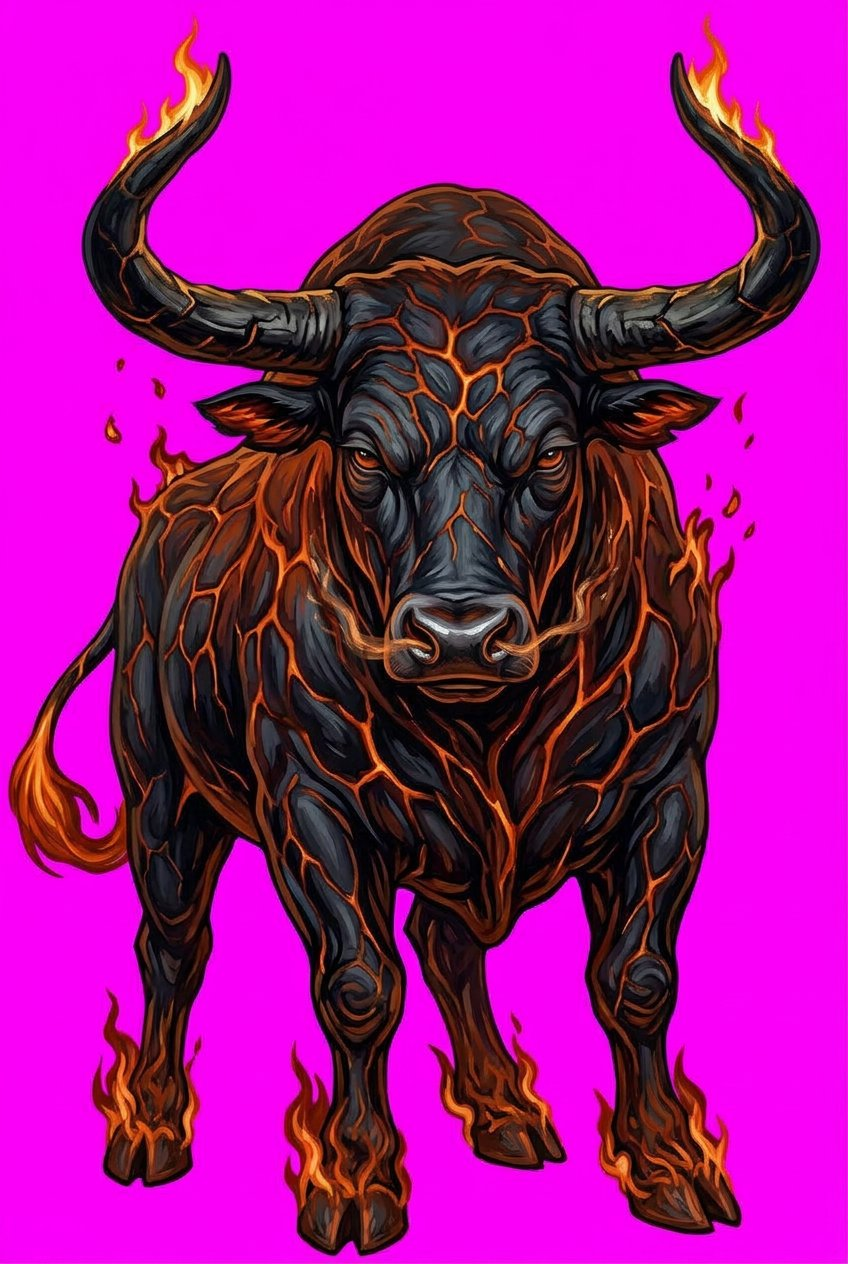
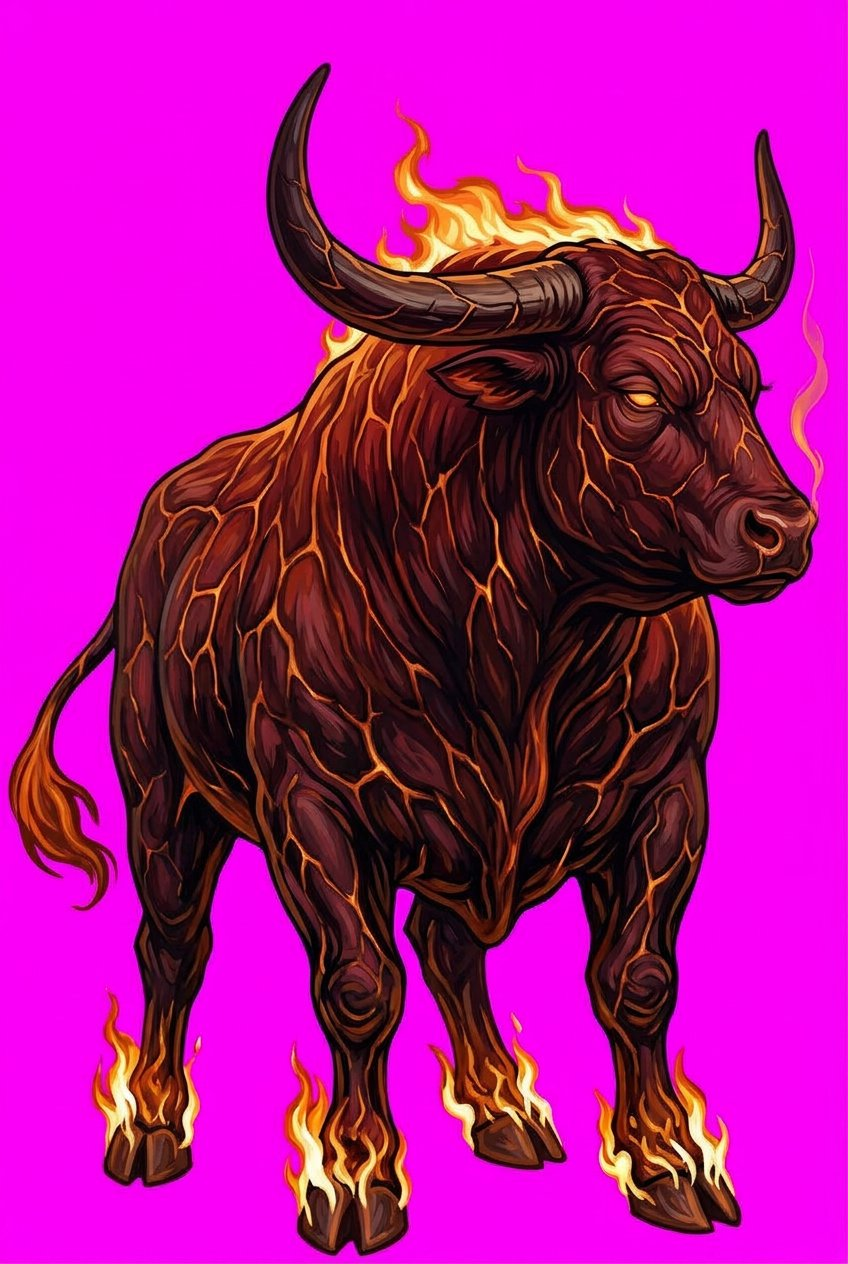
Poses : tout le casting a sa garde et sa detente, sept figures ont leur decision
Dix variantes nouvelles :

- Ifrit des ergs : detente reprise — corps de trois quarts, tete de profil,
  cornes balayees, braise refroidie. Sa garde etait trop proche de la
  reference pour lire comme une autre pose.
- Horloger du Zenith : garde (orbe d'astrolabe hisse au-dessus de la tete,
  chaine tendue, robes soulevees) et detente (orbe recueilli a deux mains a
  la ceinture, chaine detendue, dos courbe).
- Premieres poses de decision, pour la situation « choix » (une des cinq
  scenes ou le lecteur tranche) : Salem et Yamina ouvrent les mains vers le
  lecteur, la Scribe montre la liste ouverte pages tournees, le Djinn du
  tournant penche sa balance, Boualem repose sa jarre et offre ses paumes,
  le Grand Horloger passe la plume, la Valkyrie ouvre les tables de givre,
  la lance laissee a l'epaule.

Chaque variante derive de la peinture canonique de sa figure : meme visage,
meme tenue, meme palette, seule la posture change. Les 24 figures detourees
ont desormais leurs deux postures ; 79 sprites au total (24 figures et 55
variantes), tous verifies.

Tests : le lecteur monte verifie que la decision est prise en compte par les
DEUX figures du plan (Salem et la Scribe a listes-2-apres) et, a la derniere
decision du recit (sables-3-apres), que l'Horloger du Zenith — sans variante
de decision — garde bien sa pose de reference. Le rejeu de la campagne par
les vraies transitions choisit desormais la premiere option de chaque
[…]

diff --git a/src/games/rpgStoryCast.js b/src/games/rpgStoryCast.js
@@ -32,18 +32,18 @@ export const SITUATIONS_POSE_HISTOIRE = Object.freeze({
 
 const personnages = {
   narrateur: { nom: 'Bab El', fonction: 'La ville qui monte', portrait: null, couleur: '#d7bc86' },
-  salem: { nom: 'Salem', fonction: 'Le Sondeur', carte: 'salem', portrait: 'cards/salem.jpg', position: '50% 24%', couleur: '#e6bf76', stand: 'sablier-story/stands/stand-salem.webp', poses: { duel: 'sablier-story/stands/stand-salem-affrontement.webp', apres: 'sablier-story/stands/stand-salem-apaisement.webp' } },
-  yamina: { nom: 'Yamina', fonction: 'L’Horlogère', carte: 'yamina', portrait: 'cards/yamina.jpg', position: '50% 26%', couleur: '#9fd1cc', stand: 'sablier-story/stands/stand-yamina.webp', poses: { duel: 'sablier-story/stands/stand-yamina-affrontement.webp', apres: 'sablier-story/stands/stand-yamina-apaisement.webp' } },
+  salem: { nom: 'Salem', fonction: 'Le Sondeur', carte: 'salem', portrait: 'cards/salem.jpg', position: '50% 24%', couleur: '#e6bf76', stand: 'sablier-story/stands/stand-salem.webp', poses: { duel: 'sablier-story/stands/stand-salem-affrontement.webp', choix: 'sablier-story/stands/stand-salem-decision.webp', apres: 'sablier-story/stands/stand-salem-apaisement.webp' } },
+  yamina: { nom: 'Yamina', fonction: 'L’Horlogère', carte: 'yamina', portrait: 'cards/yamina.jpg', position: '50% 26%', couleur: '#9fd1cc', stand: 'sablier-story/stands/stand-yamina.webp', poses: { duel: 'sablier-story/stands/stand-yamina-affrontement.webp', choix: 'sablier-story/stands/stand-yamina-decision.webp', apres: 'sablier-story/stands/stand-yamina-apaisement.webp' } },
   feriel: { nom: 'Fériel', fonction: 'La Souffleuse de verre', carte: 'feriel', portrait: 'cards/feriel.jpg', position: '55% 22%', couleur: '#efb18e', stand: 'sablier-story/stands/stand-feriel.webp', poses: { duel: 'sablier-story/stands/stand-feriel-affrontement.webp', apres: 'sablier-story/stands/stand-feriel-apaisement.webp' } },
   tarek: { nom: 'Tarek', fonction: 'Le Porteur', carte: 'tarek', portrait: 'cards/tarek.jpg', position: '50% 24%', couleur: '#d4ad79', stand: 'sablier-story/stands/stand-tarek.webp', poses: { duel: 'sablier-story/stands/stand-tarek-affrontement.webp', apres: 'sablier-story/stands/stand-tarek-apaisement.webp' } },
-  boualem: { nom: 'Boualem', fonction: 'Le Puisatier', carte: 'boualem', portrait: 'cards/boualem.jpg', position: '50% 22%', couleur: '#9bc7d2', stand: 'sablier-story/stands/stand-boualem.webp', poses: { duel: 'sablier-story/stands/stand-boualem-affrontement.webp', apres: 'sablier-story/stands/stand-boualem-apaisement.webp' } },
+  boualem: { nom: 'Boualem', fonction: 'Le Puisatier', carte: 'boualem', portrait: 'cards/boualem.jpg', position: '50% 22%', couleur: '#9bc7d2', stand: 'sablier-story/stands/stand-boualem.webp', poses: { duel: 'sablier-story/stands/stand-boualem-affrontement.webp', choix: 'sablier-story/stands/stand-boualem-decision.webp', apres: 'sablier-story/stands/stand-boualem-apaisement.webp' } },
   guetteur: { nom: 'Le Guetteur', fonction: 'Vigie de la Chambre', carte: 'guetteur-du-beffroi', portrait: 'cards/guetteur-du-beffroi.jpg', position: '60% 22%', couleur: '#cebb99', stand: 'sablier-story/stands/stand-guetteur.webp', poses: { duel: 'sablier-story/stands/stand-guetteur-affrontement.webp', apres: 'sablier-story/stands/stand-guetteur-apaisement.webp' } },
-  scribe: { nom: 'La Scribe', fonction: 'Greffière des évacuations', portrait: 'sablier-story/scribe.jpg', position: '50% 24%', couleur: '#adc8b2', stand: 'sablier-story/stands/stand-scribe.webp', poses: { duel: 'sablier-story/stands/stand-scribe-affrontement.webp', apres: 'sablier-story/stands/stand-scribe-apaisement.webp' } },
+  scribe: { nom: 'La Scribe', fonction: 'Greffière des évacuations', portrait: 'sablier-story/scribe.jpg', position: '50% 24%', couleur: '#adc8b2', stand: 'sablier-story/stands/stand-scribe.webp', poses: { duel: 'sablier-story/stands/stand-scribe-affrontement.webp', choix: 'sablier-story/stands/stand-scribe-decision.webp', apres: 'sablier-story/stands/stand-scribe-apaisement.webp' } },
   puisatier: { nom: 'Le Puisatier des Cendres', fonction: 'Gardien des registres de passage', portrait: 'sablier-story/puisatier.jpg', position: '50% 24%', couleur: '#9bc7d2', stand: 'sablier-story/stands/stand-puisatier.webp', poses: { duel: 'sablier-story/stands/stand-puisatier-affrontement.webp', apres: 'sablier-story/stands/stand-puisatier-apaisement.webp' } },
-  mahieddine: { nom: 'Mahieddine', fonction: 'Le Grand Horloger', portrait: 'sablier-story/mahieddine.jpg', position: '50% 24%', couleur: '#d7bc86', stand: 'sablier-story/stands/stand-mahieddine.webp', poses: { duel: 'sablier-story/stands/stand-mahieddine-affrontement.webp', apres: 'sablier-story/stands/stand-mahieddine-apaisement.webp' } },
+  mahieddine: { nom: 'Mahieddine', fonction: 'Le Grand Horloger', portrait: 'sablier-story/mahieddine.jpg', position: '50% 24%', couleur: '#d7bc86', stand: 'sablier-story/stands/stand-mahieddine.webp', poses: { duel: 'sablier-story/stands/stand-mahieddine-affrontement.webp', choix: 'sablier-story/stands/stand-mahieddine-decision.webp', apres: 'sablier-story/stands/stand-mahieddine-apaisement.webp' } },
   marchand: { nom: 'Le Marchand de sable', fonction: 'Facteur des étals', carte: 'faiseur-de-passage', portrait: 'cards/faiseur-de-passage.jpg', position: '50% 24%', couleur: '#d9b578', stand: 'sablier-story/stands/stand-marchand.webp', poses: { duel: 'sablier-story/stands/stand-marchand-affrontement.webp', apres: 'sablier-story/stands/stand-marchand-apaisement.webp' } },
   amani: { nom: 'La Gardienne des ksour', fonction: 'Portière du souk haut', carte: 'amani-des-ksour', portrait: 'cards/amani-des-ksour.jpg', position: '50% 22%', couleur: '#e2bd84', stand: 'sablier-story/stands/stand-amani.webp', poses: { duel: 'sablier-story/stands/stand-amani-affrontement.webp', apres: 'sablier-story/stands/stand-amani-apaisement.webp' } },
-  'djinn-souk': { nom: 'Le Djinn du tournant', fonction: 'Rouleur d’épices', carte: 'djinn-du-souk', portrait: 'cards/djinn-du-souk.jpg', position: '50% 22%', couleur: '#ef9d6e', stand: 'sablier-story/stands/stand-djinn-souk.webp', poses: { duel: 'sablier-story/stands/stand-djinn-souk-affrontement.webp', apres: 'sablier-story/stands/stand-djinn-souk-apaisement.webp' } },
+  'djinn-souk': { nom: 'Le Djinn du tournant', fonction: 'Rouleur d’épices', carte: 'djinn-du-souk', portrait: 'cards/djinn-du-souk.jpg', position: '50% 22%', couleur: '#ef9d6e', stand: 'sablier-story/stands/stand-djinn-souk.webp', poses: { duel: 'sablier-story/stands/stand-djinn-souk-affrontement.webp', choix: 'sablier-story/stands/stand-djinn-souk-decision.webp', apres: 'sablier-story/stands/stand-djinn-souk-apaisement.webp' } },
   'reine-etals': { nom: 'La Reine des étals', fonction: 'Doyenne du souk', carte: 'tin-hinan', portrait: 'cards/tin-hinan-des-pistes.jpg', position: '50% 22%', couleur: '#ecc987', stand: 'sablier-story/stands/stand-reine-etals.webp', poses: { duel: 'sablier-story/stands/stand-reine-etals-affrontement.webp', apres: 'sablier-story/stands/stand-reine-etals-apaisement.webp' } },
   pecheur: { nom: 'Le Pêcheur de perles', fonction: 'Plongeur des citernes basses', carte: 'veilleuse-des-citernes', portrait: 'cards/veilleuse-des-citernes.jpg', position: '50% 24%', couleur: '#8ec7d2', stand: 'sablier-story/stands/stand-pecheur.webp', poses: { duel: 'sablier-story/stands/stand-pecheur-affrontement.webp', apres: 'sablier-story/stands/stand-pecheur-apaisement.webp' } },
   nageuse: { nom: 'La Nageuse des puits', fonction: 'Gardienne des eaux souterraines', carte: 'bakunawa', portrait: 'cards/bakunawa.jpg', position: '50% 24%', couleur: '#7ab8cb', stand: 'sablier-story/stands/stand-nageuse.webp', poses: { duel: 'sablier-story/stands/stand-nageuse-affrontement.webp', apres: 'sablier-story/stands/stand-nageuse-apaisement.webp' } },
@@ -51,11 +51,11 @@ const personnages = {
   devoreur: { nom: 'Le Dévoreur de l’abîme', fonction: 'Gardien du fond', carte: 'leviathan', portrait: 'cards/leviathan.jpg', position: '50% 24%', couleur: '#6fb3c8', stand: 'sablier-story/stands/stand-devoreur.webp', poses: { duel: 'sablier-story/stands/stand-devoreur-affrontement.webp', apres: 'sablier-story/stands/stand-devoreur-apaisement.webp' } },
   'garde-fjord': { nom: 'La Garde du fjord', fonction: 'Boucliers du passage', carte: 'guerrier-au-bouclier-rond', portrait: 'cards/guerrier-au-bouclier-rond.jpg', position: '50% 22%', couleur: '#a8cbe0', stand: 'sablier-story/stands/stand-garde-fjord.webp', poses: { duel: 'sablier-story/stands/stand-garde-fjord-affrontement.webp', apres: 'sablier-story/stands/stand-garde-fjord-apaisement.webp' } },
   'meute-neiges': { nom: 'La Meute des neiges', fonction: 'Chasseurs du plateau de glace', carte: 'loup-des-neiges', portrait: 'cards/loup-des-neiges.jpg', position: '50% 24%', couleur: '#b9d6e8', stand: 'sablier-story/stands/stand-meute-neiges.webp', poses: { duel: 'sablier-story/stands/stand-meute-neiges-affrontement.webp', apres: 'sablier-story/stands/stand-meute-neiges-apaisement.webp' } },
-  'valkyrie-fjord': { nom: 'La Valkyrie du fjord', fonction: 'Porteuse du corbeau', carte: 'valkyrie-des-glaces', portrait: 'cards/valkyrie-des-glaces.jpg', position: '50% 22%', couleur: '#c4def0', stand: 'sablier-story/stands/stand-valkyrie-fjord.webp', poses: { duel: 'sablier-story/stands/stand-valkyrie-fjord-affrontement.webp', apres: 'sablier-story/stands/stand-valkyrie-fjord-apaisement.webp' } },
+  'valkyrie-fjord': { nom: 'La Valkyrie du fjord', fonction: 'Porteuse du corbeau', carte: 'valkyrie-des-glaces', portrait: 'cards/valkyrie-des-glaces.jpg', position: '50% 22%', couleur: '#c4def0', stand: 'sablier-story/stands/stand-valkyrie-fjord.webp', poses: { duel: 'sablier-story/stands/stand-valkyrie-fjord-affrontement.webp', choix: 'sablier-story/stands/stand-valkyrie-fjord-decision.webp', apres: 'sablier-story/stands/stand-valkyrie-fjord-apaisement.webp' } },
   'maitre-hivers': { nom: 'Le Maître des Neuf Hivers', fonction: 'Celui qui tient le serment', carte: 'pere-des-corbeaux', portrait: 'cards/pere-des-corbeaux.jpg', position: '50% 22%', couleur: '#d3e7f5', stand: 'sablier-story/stands/stand-maitre-hivers.webp', poses: { duel: 'sablier-story/stands/stand-maitre-hivers-affrontement.webp', apres: 'sablier-story/stands/stand-maitre-hivers-apaisement.webp' } },
   'dernier-fennec': { nom: 'Le Dernier Fennec', fonction: 'Éclaireur des étages perdus', carte: 'fennec-des-decombres', portrait: 'cards/fennec-des-decombres.jpg', position: '50% 24%', couleur: '#e3be7a', stand: 'sablier-story/stands/stand-dernier-fennec.webp', poses: { duel: 'sablier-story/stands/stand-dernier-fennec-affrontement.webp', apres: 'sablier-story/stands/stand-dernier-fennec-apaisement.webp' } },
-  'ifrit-ergs': { nom: 'L’Ifrit des ergs', fonction: 'Gardien du portail', carte: 'ifrit-des-ergs', portrait: 'cards/ifrit-des-ergs.jpg', position: '50% 22%', couleur: '#f09c67', stand: 'sablier-story/stands/stand-ifrit-ergs.webp', poses: { duel: 'sablier-story/stands/stand-ifrit-ergs-affrontement.webp' } },
-  'horloger-zenith': { nom: 'L’Horloger du Zénith', fonction: 'Voix de l’horloge du ciel', carte: 'sahir-des-braises', portrait: 'cards/sahir-des-braises.jpg', position: '50% 22%', couleur: '#e8c47c', stand: 'sablier-story/stands/stand-horloger-zenith.webp' },
+  'ifrit-ergs': { nom: 'L’Ifrit des ergs', fonction: 'Gardien du portail', carte: 'ifrit-des-ergs', portrait: 'cards/ifrit-des-ergs.jpg', position: '50% 22%', couleur: '#f09c67', stand: 'sablier-story/stands/stand-ifrit-ergs.webp', poses: { duel: 'sablier-story/stands/stand-ifrit-ergs-affrontement.webp', apres: 'sablier-story/stands/stand-ifrit-ergs-apaisement.webp' } },
+  'horloger-zenith': { nom: 'L’Horloger du Zénith', fonction: 'Voix de l’horloge du ciel', carte: 'sahir-des-braises', portrait: 'cards/sahir-des-braises.jpg', position: '50% 22%', couleur: '#e8c47c', stand: 'sablier-story/stands/stand-horloger-zenith.webp', poses: { duel: 'sablier-story/stands/stand-horloger-zenith-affrontement.webp', apres: 'sablier-story/stands/stand-horloger-zenith-apaisement.webp' } },
 };
 export const RPG_STORY_CAST = Object.freeze(Object.fromEntries(
   Object.entries(personnages).map(([id, personnage]) => [id, Object.freeze({ id, ...personnage })]),

diff --git a/scripts/rpg-story-narrative-smoke.jsx b/scripts/rpg-story-narrative-smoke.jsx
@@ -5,7 +5,7 @@ import RpgDuelPage from '../src/games/RpgDuelPage.jsx';
 import { cardById } from '../src/games/rpgCards.js';
 import { RPG_STORY_STORAGE_KEY, RPG_STORY_LEGACY_STORAGE_KEY } from '../src/games/rpgStory.js';
 import { RPG_STORY_DECKS, RPG_STORY_TOURS } from '../src/games/rpgStoryTours.js';
-import { RPG_STORY_CAMPAIGN_FLOORS, acteSuivantHistoire, sceneHistoire } from '../src/games/rpgStoryScenes.js';
+import { RPG_STORY_CAMPAIGN_FLOORS, acteSuivantHistoire, questionChoix, sceneHistoire } from '../src/games/rpgStoryScenes.js';
 import { recitHistoireVide, transitionRecitHistoire } from '../src/games/rpgStoryFlow.js';
 import { collectionJoueur, chargerCollectionDistante, revelationsDepuisEtages } from '../src/games/rpgCollection.js';
 import { RPG_PV_JOUEUR } from '../src/games/rpgDuel.js';
@@ -319,8 +319,12 @@ export async function checkRpgStoryPoses(assert) {
       }
       const scene = sceneHistoire(recit.curseur.id);
       if (scene.choix) {
+        // Chaque question a ses propres options : on prend la première, comme
+        // un lecteur qui tranche sans se poser de question.
+        const question = questionChoix(scene.choix);
         recit = transitionRecitHistoire(recit, { type: 'resumer', curseur: recit.curseur }, etages);
-        recit = transitionRecitHistoire(recit, { type: 'choisir', curseur: recit.curseur, optionId: 'publique' }, etages);
+        recit = transitionRecitHistoire(recit,
+          { type: 'choisir', curseur: recit.curseur, optionId: question.options[0].id }, etages);
       } else {
         recit = transitionRecitHistoire(recit, { type: 'continuer', curseur: recit.curseur }, etages);
       }
@@ -355,16 +359,16 @@ export async function checkRpgStoryPoses(assert) {
     assert.equal(sprite('salem').dataset.pose, 'apres', 'la scène d’après-duel a sa propre posture');
     assert.match(sprite('salem').getAttribute('src'), /stand-salem-apaisement\.webp/);
 
-    // 4. Une décision posée a sa situation à part : sans variante déclarée, la
-    //    référence revient — jamais de carré cassé ni de pose d’une autre scène.
+    // 4. Une décision posée a sa situation à part, et sa propre peinture : les
+    //    figures du plan qui en ont une la prennent ensemble, devant le lecteur.
     poserEtat({ type: 'scene', id: 'listes-2-apres', replique: dernier('listes-2-apres'), resume: false },
       { etagesVaincus: ['listes-1', 'listes-2'], scenesVues: ['listes-1-avant', 'listes-1-apres', 'listes-2-avant'] });
     await ouvrir();
     assert.ok(query('[data-story-choice-group]'), 'la décision est réellement posée');
-    assert.equal(sprite('salem').dataset.pose, undefined, 'situation « décision » : pose de référence');
-    assert.match(sprite('salem').getAttribute('src'), /stand-salem\.webp/);
-    assert.equal(sprite('scribe').dataset.pose, undefined, 'la Scribe n’a pas de variante pour une décision');
-    assert.match(sprite('scribe').getAttribute('src'), /stand-scribe\.webp/);
+    assert.equal(sprite('salem').dataset.pose, 'choix', 'la décision a sa propre posture');
+    assert.match(sprite('salem').getAttribute('src'), /stand-salem-decision\.webp/);
+    assert.equal(sprite('scribe').dataset.pose, 'choix', 'la Scribe montre la liste au lecteur');
+    assert.match(sprite('scribe').getAttribute('src'), /stand-scribe-decision\.webp/);
 
     // 5. Toute la campagne plus loin : les deux figures d'un même plan qui ont
     //    une variante l'utilisent ensemble — Salem et Mahieddine se détendent
@@ -379,6 +383,21 @@ export async function checkRpgStoryPoses(assert) {
     assert.match(sprite('salem').getAttribute('src'), /stand-salem-apaisement\.webp/);
     assert.equal(sprite('mahieddine').dataset.pose, 'apres', 'Mahieddine aussi : la même situation vaut pour tout le plan');
     assert.match(sprite('mahieddine').getAttribute('src'), /stand-mahieddine-apaisement\.webp/);
+
+    // 6. La dernière décision du récit : une figure du plan a sa pose de
+    //    décision, l'autre n'en a pas et garde sa référence — jamais de carré
+    //    cassé, et pas de pose empruntée à un autre moment.
+    const etatFinale = avancerJusqua('sables-3-apres');
+    poserEtat({
+      type: 'scene', id: 'sables-3-apres', replique: dernier('sables-3-apres'), resume: false,
+    }, { etagesVaincus: etatFinale.etages, scenesVues: etatFinale.recit.scenesVues, choix: etatFinale.recit.choix });
+    await ouvrir();
+    assert.ok(query('[data-story-choice-group]'), 'le choix du portail est posé au lecteur');
+    assert.equal(sprite('mahieddine').dataset.pose, 'choix', 'le Grand Horloger passe la plume');
+    assert.match(sprite('mahieddine').getAttribute('src'), /stand-mahieddine-decision\.webp/);
+    assert.equal(sprite('horloger-zenith').dataset.pose, undefined,
+      'sans variante de décision, l’Horloger du Zénith garde sa pose de référence');
+    assert.match(sprite('horloger-zenith').getAttribute('src'), /stand-horloger-zenith\.webp/);
   } finally {
     if (root) await act(async () => root.unmount());
     container.remove();

diff --git a/tests/rpg-story-narrative.test.js b/tests/rpg-story-narrative.test.js
@@ -150,36 +150,43 @@ test('les poses alternatives suivent la situation et livrent leur propre sprite'
     }
   }
 
-  // Les figures livrées avec leurs deux postures : les cinq héros, les figures
-  // de la Chambre et les antagonistes des actes I à IV.
-  for (const id of ['salem', 'yamina', 'feriel', 'tarek', 'boualem', 'mahieddine',
+  // Les vingt-quatre figures du casting ont leurs deux postures : les cinq
+  // héros, les figures de la Chambre et tous les antagonistes des actes I à V.
+  const FIGURES_POSE = ['salem', 'yamina', 'feriel', 'tarek', 'boualem', 'mahieddine',
     'scribe', 'guetteur', 'puisatier', 'marchand', 'amani', 'djinn-souk', 'reine-etals',
     'pecheur', 'nageuse', 'sonneur', 'devoreur', 'garde-fjord', 'meute-neiges',
-    'valkyrie-fjord', 'maitre-hivers', 'dernier-fennec']) {
-    assert.deepEqual(situationsPoseHistoire(id), ['duel', 'apres'], id);
+    'valkyrie-fjord', 'maitre-hivers', 'dernier-fennec', 'ifrit-ergs', 'horloger-zenith'];
+  // Celles qui posent une décision au lecteur ont en plus leur posture de
+  // décision — les deux figures de chaque scène de décision, sauf l'Horloger
+  // du Zénith, dont la décision retombe sur sa référence.
+  const FIGURES_DECISION = ['salem', 'yamina', 'scribe', 'djinn-souk', 'boualem',
+    'mahieddine', 'valkyrie-fjord'];
+  const avecVariante = Object.values(RPG_STORY_CAST).filter((p) => p.poses);
+  assert.equal(avecVariante.length, FIGURES_POSE.length,
+    'toute figure détourée porte ses variantes — le narrateur excepté');
+  for (const id of FIGURES_POSE) {
+    assert.deepEqual(situationsPoseHistoire(id),
+      FIGURES_DECISION.includes(id) ? ['duel', 'choix', 'apres'] : ['duel', 'apres'], id);
     assert.equal(poseHistoire(id, 'duel', '/base/').split('?')[0],
       `/base/sablier-story/stands/stand-${id}-affrontement.webp`, id);
     assert.equal(poseHistoire(id, 'apres', '/base/').split('?')[0],
       `/base/sablier-story/stands/stand-${id}-apaisement.webp`, id);
     assert.match(poseHistoire(id, 'duel', '/base/'), /\?v=[\w-]+$/, `${id} : la variante est datée comme la référence`);
-  }
-  // Une figure peut n'avoir que sa garde : la situation non déclarée retombe
-  // alors sur la pose de référence, sans trou ni carré cassé.
-  for (const id of ['ifrit-ergs']) {
-    assert.deepEqual(situationsPoseHistoire(id), ['duel'], id);
-    assert.equal(poseHistoire(id, 'duel', '/base/').split('?')[0],
-      `/base/sablier-story/stands/stand-${id}-affrontement.webp`, id);
-    assert.equal(poseHistoire(id, 'apres', '/base/'), standHistoire(id, '/base/'),
-      `${id} : une situation non déclarée retombe sur la référence`);
+    if (FIGURES_DECISION.includes(id)) {
+      assert.equal(poseHistoire(id, 'choix', '/base/').split('?')[0],
+        `/base/sablier-story/stands/stand-${id}-decision.webp`, id);
+    }
   }
 
-  // Une situation inconnue ou absente retombe sur la référence, et un
-  // personnage encore sans variante n'en invente pas.
+  // Une situation non déclarée pour une figure donnée retombe sur sa référence :
+  // à la dernière décision du récit, l'Horloger du Zénith n'en a pas.
+  assert.equal(poseHistoire('horloger-zenith', 'choix', '/base/'), standHistoire('horloger-zenith', '/base/'),
+    'une situation non déclarée retombe sur la référence de la figure');
+  assert.equal(poseHistoire('guetteur', 'choix', '/base/'), standHistoire('guetteur', '/base/'));
+
+  // Une situation inconnue ou absente retombe sur la référence.
   assert.equal(poseHistoire('salem', 'inconnue', '/base/'), standHistoire('salem', '/base/'));
   assert.equal(poseHistoire('salem', null, '/base/'), standHistoire('salem', '/base/'));
-  assert.equal(poseHistoire('horloger-zenith', 'duel', '/base/'), standHistoire('horloger-zenith', '/base/'),
-    'un personnage sans variante garde sa pose de référence');
-  assert.deepEqual(situationsPoseHistoire('horloger-zenith'), []);
   assert.deepEqual(situationsPoseHistoire('narrateur'), []);
   assert.equal(poseHistoire('narrateur', 'duel', '/base/'), null, 'la ville n’a pas de corps');
   assert.equal(poseHistoire('absent', 'duel', '/base/'), null);

diff --git a/docs/rpg/11-bible-visuelle.md b/docs/rpg/11-bible-visuelle.md
@@ -118,15 +118,18 @@ même visage, même tenue, même peinture, seule la posture change (et
 l'expression avec elle). Trois situations existent, déclarées une fois pour
 toutes dans `SITUATIONS_POSE_HISTOIRE` :
 
-| Situation | Quand elle s'applique | Posture |
-| --- | --- | --- |
-| `duel` | Dernier échange d'une scène d'avant-duel | On se met en garde, on se cambre |
-| `choix` | Une décision est posée au lecteur | La figure qui interroge tient son monde |
-| `apres` | Dernier échange d'une scène d'après-duel | Les épaules redescendent, la voix s'adoucit |
+| Situation | Fichier | Quand elle s'applique | Posture |
+| --- | --- | --- | --- |
+| `duel` | `-affrontement` | Dernier échange d'une scène d'avant-duel | On se met en garde, on se cambre |
+| `choix` | `-decision` | Une décision est posée au lecteur | La figure qui interroge tient son monde |
+| `apres` | `-apaisement` | Dernier échange d'une scène d'après-duel | Les épaules redescendent, la voix s'adoucit |
 
 Le registre est le seul endroit qui connaît les fichiers : chaque personnage
 porte `poses: { duel: 'sablier-story/stands/stand-<id>-affrontement.webp',
-apres: '…-apaisement.webp' }` et `poseHistoire(id, situation)` résout l'image.
+choix: '…-decision.webp', apres: '…-apaisement.webp' }` et
+`poseHistoire(id, situation)` résout l'image. Le nom du fichier suit toujours
+le suffixe que la situation déclare (`SITUATIONS_POSE_HISTOIRE`, champ
+`suffixe`) : le test refuse une variante mal nommée.
 **Règles de continuité :**
 
 - une situation non déclarée, inconnue ou absente retombe sur la pose de
@@ -143,25 +146,29 @@ apres: '…-apaisement.webp' }` et `poseHistoire(id, situation)` résout l'image
   vérifie que la pose change au dernier échange et revient au référentiel
   ensuite.
 
-**État livré :** les deux postures de **vingt-trois figures** — les cinq héros
-(Salem, Yamina, Fériel, Tarek, Boualem, Mahieddine), les figures de la Chambre
-(la Scribe, le Guetteur, le Puisatier des Cendres), les antagonistes des deux
-premiers actes (le Marchand de sable, la Gardienne des ksour, le Djinn du
-tournant, la Reine des étals) et **les actes des Abysses et du Fjord au
-complet** (le Pêcheur de perles, la Nageuse des puits, le Sonneur d'écume, le
-Dévoreur de l'abîme, la Garde du fjord, la Meute des neiges, la Valkyrie du
-fjord, le Maître des Neuf Hivers, le Dernier Fennec).
+**État livré :** les deux postures de **toutes les figures détourées** — les
+cinq héros (Salem, Yamina, Fériel, Tarek, Boualem, Mahieddine), les figures de
+la Chambre (la Scribe, le Guetteur, le Puisatier des Cendres) et les
+antagonistes des actes I à V (le Marchand de sable, la Gardienne des ksour, le
+Djinn du tournant, la Reine des étals, le Pêcheur de perles, la Nageuse des
+puits, le Sonneur d'écume, le Dévoreur de l'abîme, la Garde du fjord, la Meute
+des neiges, la Valkyrie du fjord, le Maître des Neuf Hivers, le Dernier Fennec,
+l'Ifrit des ergs, l'Horloger du Zénith).
 
-Trois exemples : la Scribe ouvre son registre et lève la main avant le duel,
-puis offre sa plume ; la Garde du fjord dresse son bouclier en mur devant sa
-poitrine, puis le pose contre sa jambe et ouvre la main vers la herse ; le
-Maître des Neuf Hivers abat son bâton dans la glace et fait tournoyer ses deux
-corbeaux, puis plante le bâton et offre le sceau du Nord.
+**Sept figures ont en plus leur posture de décision** — celles des cinq scènes
+où le lecteur tranche : Salem, Yamina, la Scribe, le Djinn du tournant,
+Boualem, Mahieddine et la Valkyrie du fjord. À `listes-2-apres`, la Scribe
+montre la liste ouverte au lecteur, pages tournées vers lui ; à
+`sables-3-apres`, le Grand Horloger ouvre les mains à hauteur de hanche et
+passe la plume. L'Horloger du Zénith, qui n'en a pas encore, garde sa pose de
+référence pendant ce même plan : c'est le repli, prouvé par le lecteur monté.
 
-**Il ne reste que la détente de l'Ifrit des ergs** (sa garde est livrée, la
-seconde pose est à reprendre) **et l'Horloger du Zénith**, encore sans aucune
-variante : une situation sans variante retombe simplement sur la pose de
-référence, et le registre ne déclare jamais un fichier qui n'existe pas.
+Quelques repères de la garde et de la détente : la Garde du fjord dresse son
+bouclier en mur devant sa poitrine, puis le pose contre sa jambe et ouvre la
+main vers la herse ; le Maître des Neuf Hivers abat son bâton dans la glace et
+fait tournoyer ses deux corbeaux, puis plante le bâton et offre le sceau du
+Nord ; le Sonneur d'écume hisse sa cloche de bronze au-dessus de l'épaule, puis
+s'écarte, la cloche au repos derrière le talon.
 
 ### Contour des sprites : le liseré de fond
 
@@ -180,8 +187,8 @@ Trois pièges du détourage, tous traités par l'outil et vérifiés par
    `python3 tools/check-stands.py` mesure les deux (liseré et gabarit) et nomme
    les sprites à reprendre. **Repris dans cette passe :** `stand-tarek.webp`
    (source portrait 896×1200), `stand-valkyrie-fjord.webp` et
-   `stand-ifrit-ergs.webp` (sources portrait). **69 sprites** (24 figures et
-   45 variantes) passent aujourd'hui le contrôle sans réserve.
+   `stand-ifrit-ergs.webp` (sources portrait). **79 sprites** (24 figures et
+   55 variantes) passent aujourd'hui le contrôle sans réserve.
 
 ## Mise en scène
 

diff --git a/public/sablier-story/README.md b/public/sablier-story/README.md
@@ -43,6 +43,7 @@ registre, sous `poses` :
 ```js
 salem: { …, stand: '…/stand-salem.webp', poses: {
   duel: 'sablier-story/stands/stand-salem-affrontement.webp',
+  choix: 'sablier-story/stands/stand-salem-decision.webp',
   apres: 'sablier-story/stands/stand-salem-apaisement.webp',
 } }
 ```
@@ -51,14 +52,15 @@ Recette d’une variante : même peinture, même visage, même tenue que la pose
 référence (elle sert de **source de composition**), mais une autre posture —
 puis la même chaîne `tools/make-stands.py <id>-<pose> --debug`.
 
-Livrées : les deux poses des cinq héros (Salem, Yamina, Fériel, Tarek,
-Boualem, Mahieddine), des figures de la Chambre (Scribe, Guetteur, Puisatier
-des Cendres), des antagonistes des deux premiers actes (Marchand de sable,
-Gardienne des ksour, Djinn du tournant, Reine des étals) et des actes des
-Abysses et du Fjord (Pêcheur de perles, Nageuse des puits, Sonneur d’écume,
-Dévoreur de l’abîme, Garde du fjord, Meute des neiges, Valkyrie du fjord,
-Maître des Neuf Hivers, Dernier Fennec). Restent à peindre : la détente de
-l’Ifrit des ergs et les poses de l’Horloger du Zénith.
+Livrées : la garde et la détente de **toutes les figures détourées** — les cinq
+héros, les figures de la Chambre (Scribe, Guetteur, Puisatier des Cendres) et
+tous les antagonistes des actes I à V (Marchand de sable, Gardienne des ksour,
+Djinn du tournant, Reine des étals, Pêcheur de perles, Nageuse des puits,
+Sonneur d’écume, Dévoreur de l’abîme, Garde du fjord, Meute des neiges,
+Valkyrie du fjord, Maître des Neuf Hivers, Dernier Fennec, Ifrit des ergs,
+Horloger du Zénith) — plus la **pose de décision** des sept figures qui posent
+une question au lecteur : Salem, Yamina, la Scribe, le Djinn du tournant,
+Boualem, Mahieddine et la Valkyrie du fjord.
 
 Le **nom du fichier** dit la situation : `stand-<id>-<suffixe>.webp`, avec le
 suffixe déclaré par la situation (`affrontement`, `decision`, `apaisement`).
